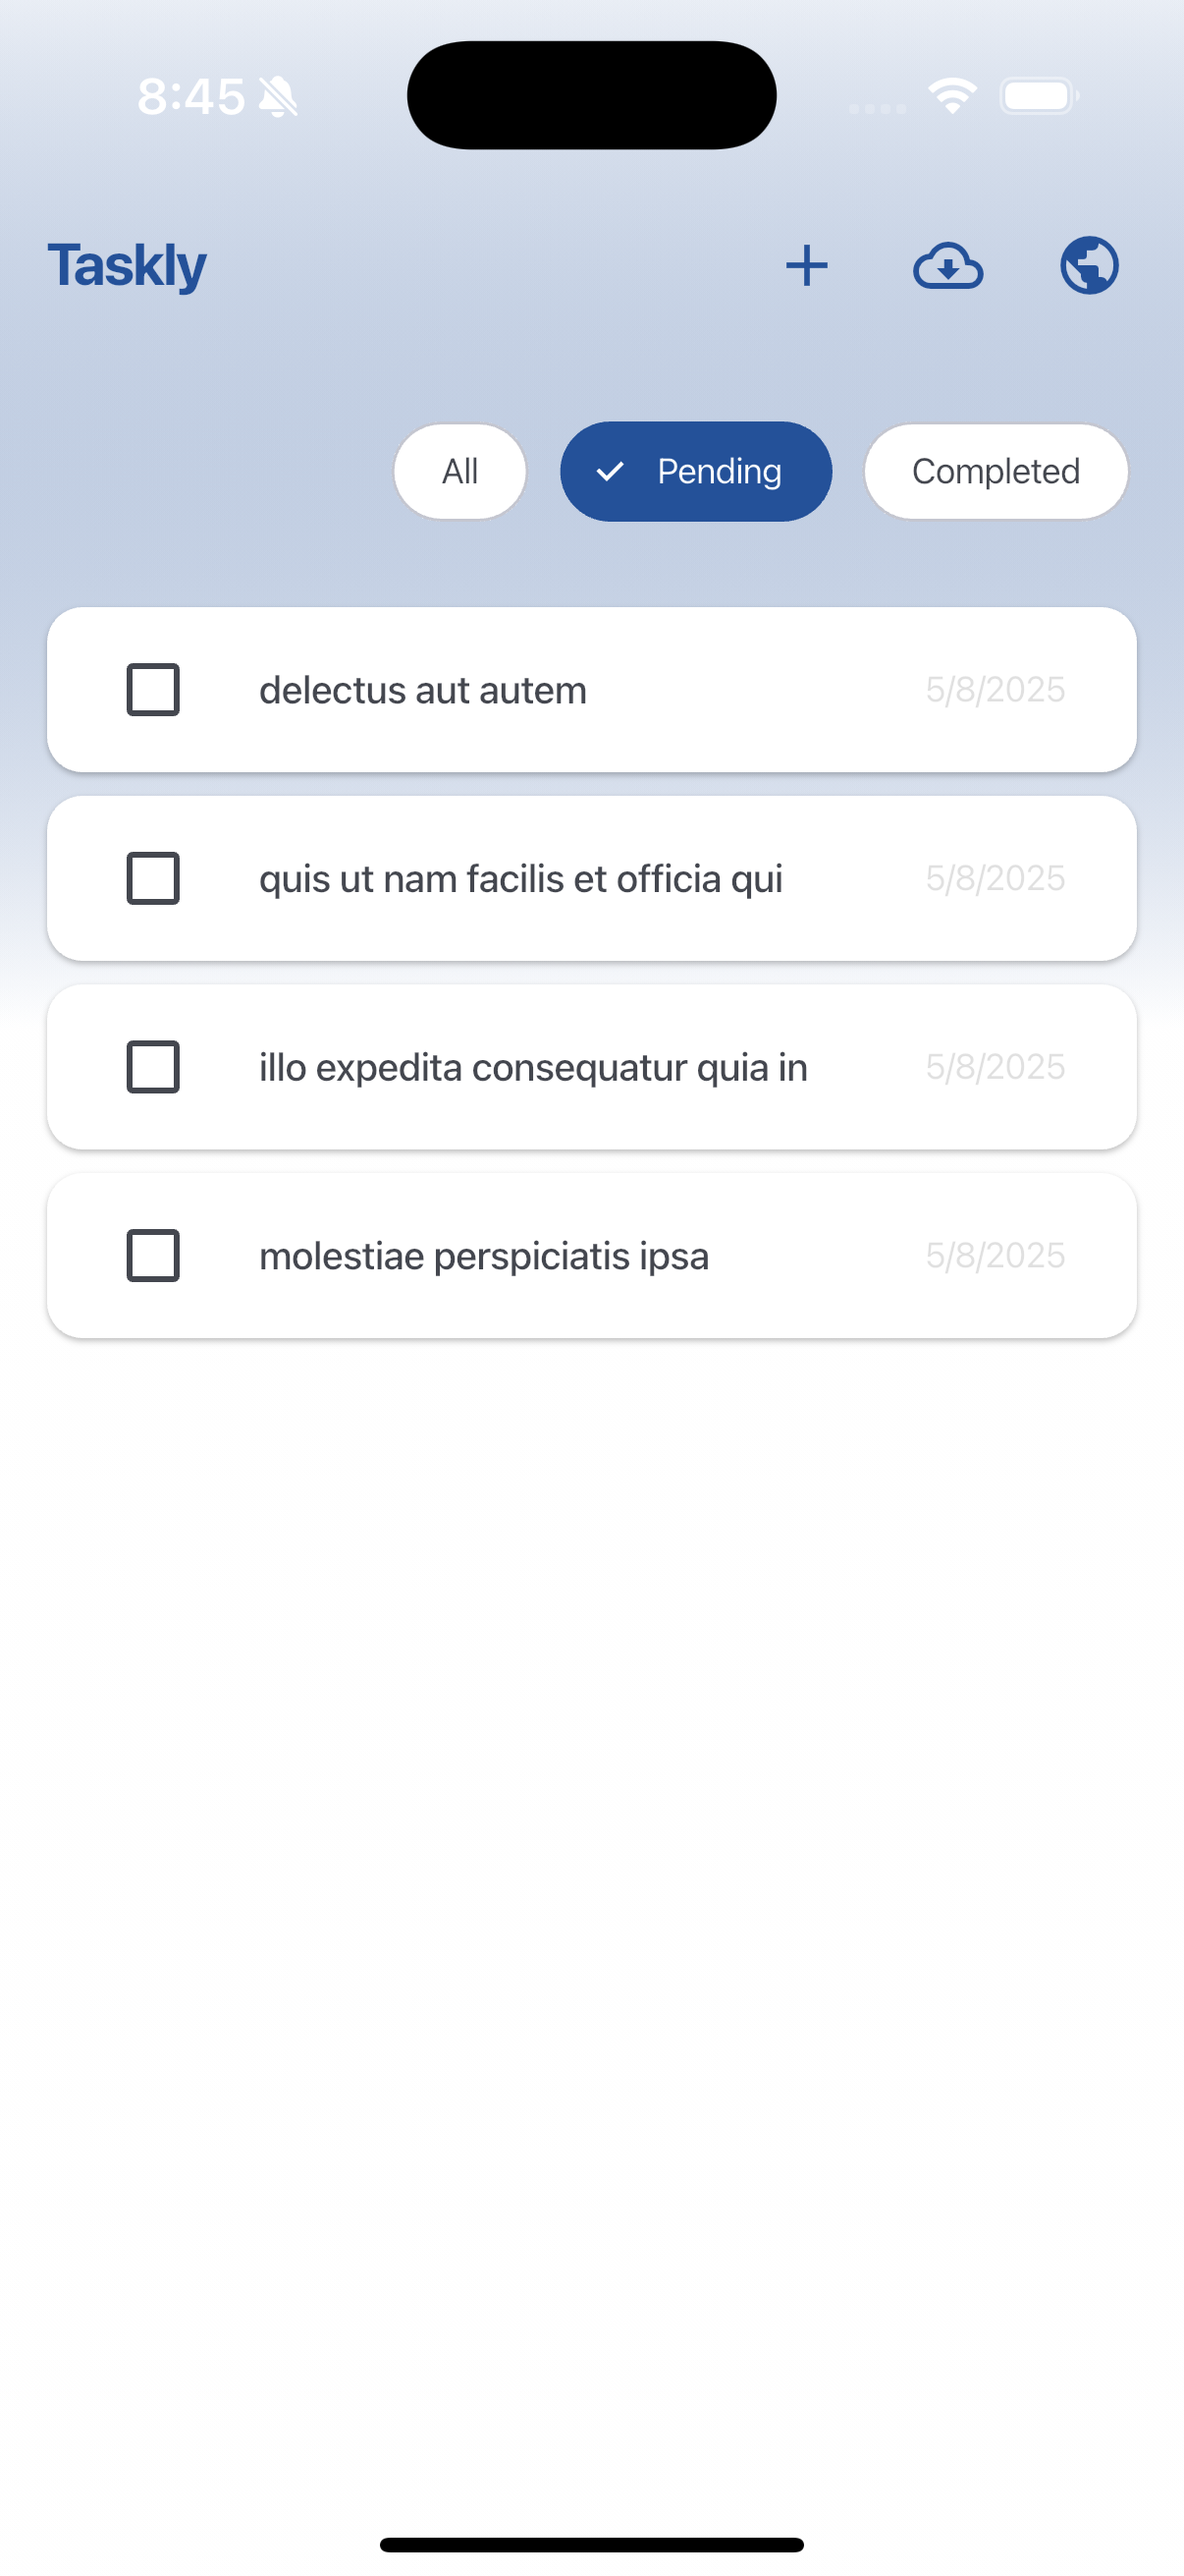
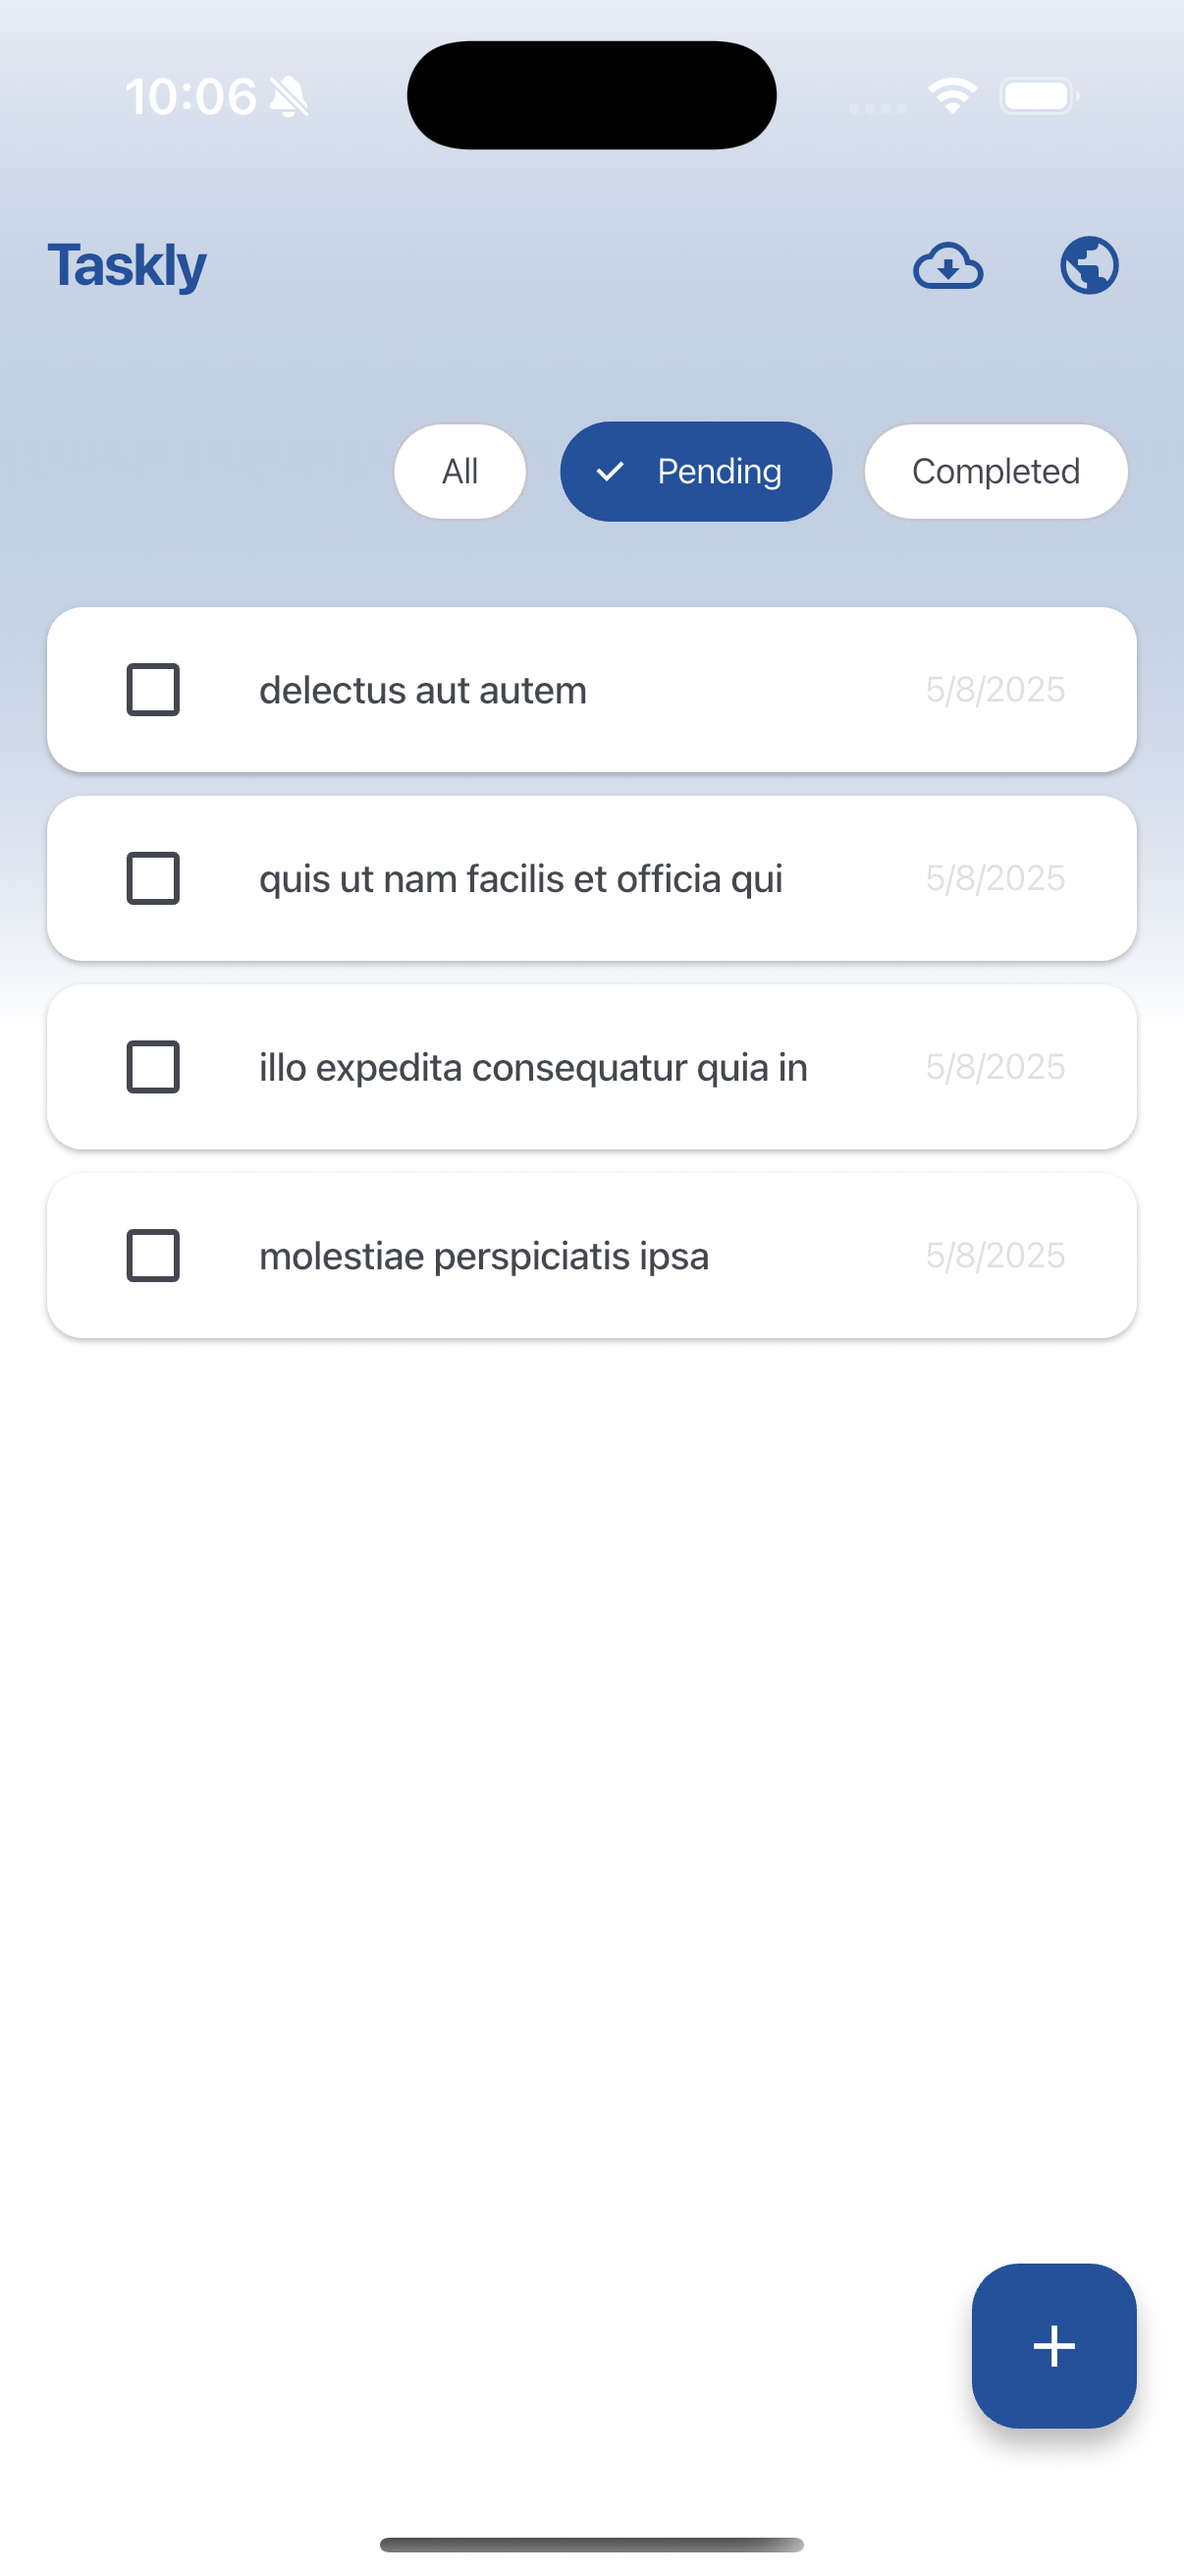
feat: add floating action button for creating tasks and update theme colors

diff --git a/lib/presentation/features/todo/presentation/screens/home_sreeen.dart b/lib/presentation/features/todo/presentation/screens/home_sreeen.dart
@@ -32,12 +32,6 @@ class _HomeScreenState extends ConsumerState<HomeScreen> {
       title: 'Taskly',
       actions: [
         IconButton(
-          onPressed: () => Navigator.pushNamed(context, AppRoutes.createTask),
-          icon: const Icon(Icons.add),
-          tooltip: t.home.actions.add.tooltip,
-          color: context.colorScheme.primary,
-        ),
-        IconButton(
           onPressed: () => ref.read(todoListProvider.notifier).loadFromRemote(),
           tooltip: t.home.actions.download.tooltip,
           icon: const Icon(Icons.cloud_download_outlined),
@@ -69,6 +63,11 @@ class _HomeScreenState extends ConsumerState<HomeScreen> {
                 : const TodoListWidget(),
           ),
         ],
+      ),
+      floatingActionButton: FloatingActionButton(
+        onPressed: () => Navigator.pushNamed(context, AppRoutes.createTask),
+        tooltip: t.home.actions.add.tooltip,
+        child: const Icon(Icons.add),
       ),
     );
   }

diff --git a/packages/taskly_ui/lib/theme/taskly_theme.dart b/packages/taskly_ui/lib/theme/taskly_theme.dart
@@ -48,5 +48,9 @@ final appThemes = {
       selectedColor: kPrimaryColor,
       checkmarkColor: kWhiteColor,
     ),
+    floatingActionButtonTheme: FloatingActionButtonThemeData(
+      backgroundColor: kPrimaryColor,
+      foregroundColor: kWhiteColor,
+    ),
   ),
 };
